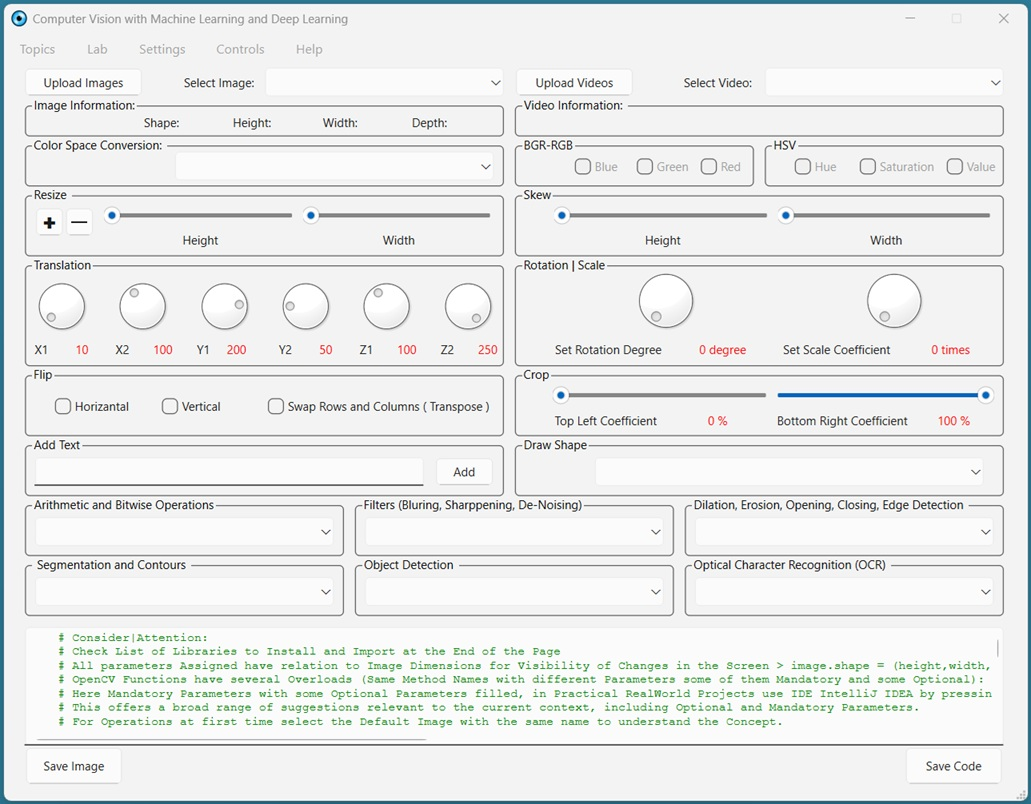
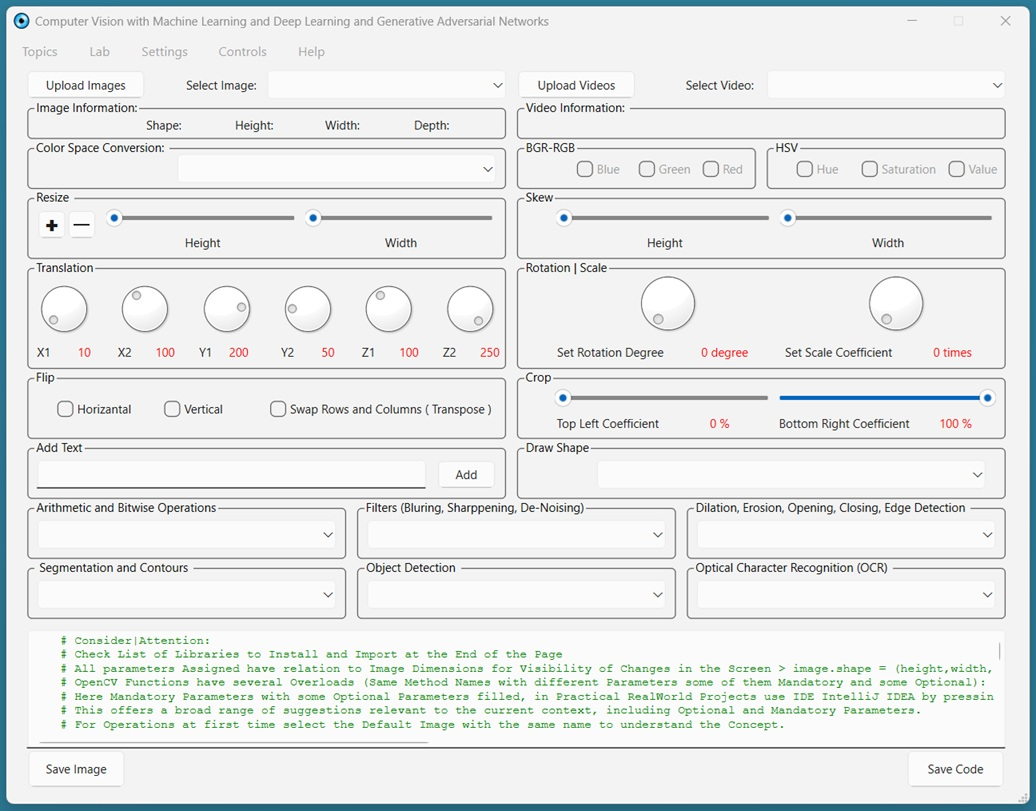
GitHub Home Page Refined.

diff --git a/utilities/Ui_MainWindow.py b/utilities/Ui_MainWindow.py
@@ -1966,7 +1966,7 @@ class UI_MainWindow(object):
 
     def retranslateUi(self, MainWindow):
         _translate = QtCore.QCoreApplication.translate
-        MainWindow.setWindowTitle(_translate("MainWindow", "Computer Vision with Machine Learning and Deep Learning"))
+        MainWindow.setWindowTitle(_translate("MainWindow", "Computer Vision with Machine Learning and Deep Learning and Generative Adversarial Networks"))
         self.groupBox_FlipImage.setTitle(_translate("MainWindow", "Flip"))
         self.checkBox_FlipVertical.setText(_translate("MainWindow", "Vertical"))
         self.checkBox_FlipHorizantal.setText(_translate("MainWindow", "Horizantal"))
